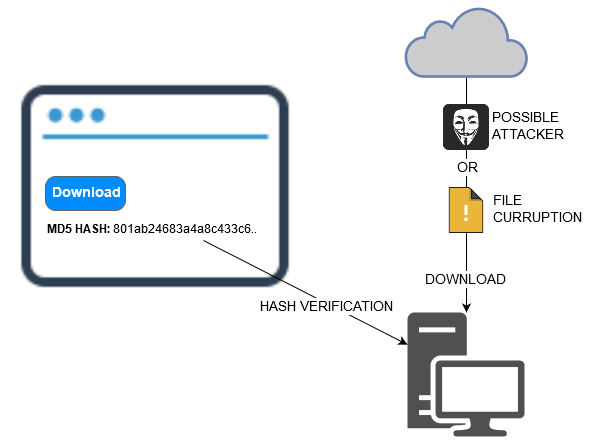
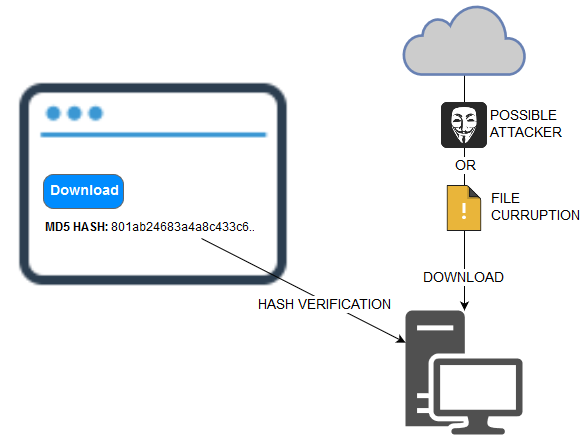
Add encryption types and white background to images

diff --git a/PITCHME.md b/PITCHME.md
@@ -70,7 +70,9 @@ Note:
 
 Note:
 
-- Assinatura Digital, TLS, Armazenamento de Passwords (+SALT)
+- Assinatura Digital
+- TLS
+- Armazenamento de Passwords (+SALT)
 
 +++
 
@@ -98,7 +100,7 @@ https://shattered.io/
 
 ## CHAVE SIMÉTRICA
 
-AES...
+AES
 <br>
 ![PreSharedKey](assets/img/PreSharedKey.png)
 
@@ -106,7 +108,7 @@ AES...
 
 ## CHAVE DISTRIBUÍDA
 
-Shamir's Secret Sharing...
+Shamir's Secret Sharing
 <br>
 ![DistributedSharedKey](assets/img/DistributedSharedKey.png)
 
@@ -114,14 +116,40 @@ Shamir's Secret Sharing...
 
 ## CHAVE ASSIMÉTRICA
 
-Diffie-Hellman, RSA...
+RSA, Diffie-Hellman
+
+Note:
+
+- Diffie-Hellman: no final do acordo apenas existe uma chave comum
+
++++
+
+#### RSA
+
+<br>
+![PublicKey](assets/img/PublicKeyEncrypt.png)
+
++++
+
+#### Diffie-Hellman
+
+<br>
+![DiffieHellman](assets/img/Diffie-Hellman_Key_Exchange.jpg)
+
+Source: [Wikipédia](https://pt.wikipedia.org/wiki/Diffie-Hellman)
 
 +++
 
 ## ASSINATURA DIGITAL
 
-Assinar documentos, código, log, etc.
-Assinar com Cartão de Cidadão (PKCS \#11)
+<br>
+![PublicKey](assets/img/PublicKeySign.png)
+
+Notes
+
+- Assinar documentos, código, log, etc.
+- Assinar com Cartão de Cidadão (PKCS \#11)
+- Assinar e encriptar ou encriptar e assinar?
 
 ---
 
